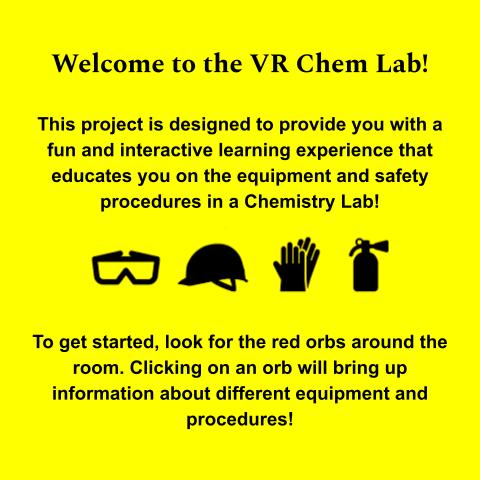
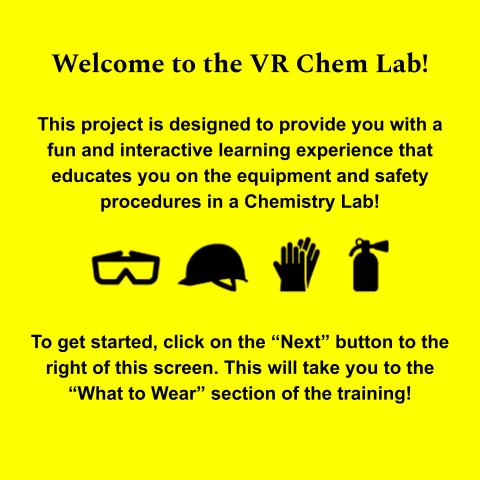
added back button

Changed region(s): [[0.0625, 0.6875, 0.9375, 0.9062]]

diff --git a/Final.py b/Final.py
@@ -21,6 +21,8 @@ view.setPosition([-0.5,4.4,-3.5])
 view.setEuler([-90,0,0])
 
 #Defines boolean variables
+toWhatToWear = False
+
 #What to Wear section
 visitedToEquipment = False
 
@@ -51,6 +53,23 @@ screen.disable(viz.LIGHTING)
 screen.visible(viz.ON)
 screen.texture(viz.addTexture("Slides/Intro.jpg"))
 
+#sets up "Next" box
+next = vizshape.addPlane(size=(.32,.18), axis=vizshape.AXIS_X, cullFace=True)
+next.setEuler(0,0,0)
+next.setPosition(-5.08,4.49,-3.45)
+next.disable(viz.LIGHTING)
+next.visible(viz.ON)
+next.texture(viz.addTexture("Slides/Next.jpg"))
+
+#sets up "Back" box
+back = vizshape.addPlane(size=(.32,.18), axis=vizshape.AXIS_X, cullFace=True)
+back.setEuler(0,0,0)
+back.setPosition(-5.08,4.49,-5.06)
+back.disable(viz.LIGHTING)
+back.visible(viz.ON)
+back.texture(viz.addTexture("Slides/Back.jpg"))
+back.visible(viz.OFF)
+
 #creates equipment orbs
 fume = viz.addChild('white_ball.wrl')
 eye_wash = viz.addChild('white_ball.wrl')
@@ -77,8 +96,19 @@ taps.color( viz.RED )
 floor.color( viz.RED )
 waste.color( viz.RED )
 toProcedure.color( viz.RED )
-toProcedure.visible(viz.OFF)
-		
+
+#turns orbs invisible
+fume.visible(viz.OFF)
+eye_wash.visible(viz.OFF)
+shower.visible(viz.OFF)
+nozzles.visible(viz.OFF)
+fire_ext.visible(viz.OFF)
+bench.visible(viz.OFF)
+sinks.visible(viz.OFF)
+taps.visible(viz.OFF)
+floor.visible(viz.OFF)
+waste.visible(viz.OFF)
+toProcedure.visible(viz.OFF)		
 
 #positions orbs
 fume.setPosition([-3.5,5,.85])
@@ -88,9 +118,9 @@ shower.setPosition([2,5,-11])
 fire_ext.setPosition([-4.2,4.1,-9.8])
 bench.setPosition([-0.5,3.9,-7.5])
 sinks.setPosition([-2.7,4.1,-4.8])
-taps.setPosition([-0.5,3.9,-7.5])
+taps.setPosition([-3,4,-1])
 floor.setPosition([2,3.2,-3.1])
-waste.setPosition([-0.5,3.9,-7.5])
+waste.setPosition([-4.5,3.6,-4])
 toProcedure.setPosition([-5,5,-5])
 
 def safetyTutorial():
@@ -98,12 +128,34 @@ def safetyTutorial():
 		proceduresTutorial()
 	elif visitedToEquipment == True:
 		equipmentTutorial()
+	elif toWhatToWear == True:
+		whatToWear()
 	else:
 		introduction()
 		
 def introduction():
+	global toWhatToWear
+	object = viz.pick()
+	if object == next:
+		print('running introduction')
+		toWhatToWear = True
+		fume.visible(viz.ON)
+		eye_wash.visible(viz.ON)
+		shower.visible(viz.ON)
+		nozzles.visible(viz.ON)
+		fire_ext.visible(viz.ON)
+		bench.visible(viz.ON)
+		sinks.visible(viz.ON)
+		taps.visible(viz.ON)
+		floor.visible(viz.ON)
+		waste.visible(viz.ON)
+		back.visible(viz.ON)
+	
+def whatToWear():
 	global visitedToEquipment
 	visitedToEquipment = True
+	#whatToWear
+	
 	
 
 def equipmentTutorial():
@@ -151,8 +203,8 @@ def equipmentTutorial():
 		view.setEuler([-90,0,0])
 	elif object == bench:
 		visitedBench = True 
-		viz.window.displayHTML( 'www.google.com' )
-		vizact.onkeydown(' ', viz.window.hideHTML )
+		#viz.window.displayHTML( 'www.google.com' )
+		#vizact.onkeydown(' ', viz.window.hideHTML )
 		screen.texture(viz.addTexture("Slides/Equipment/Lab_Bench.jpg"))
 		bench.color( viz.GREEN )
 		view.setPosition([-0.5,4.4,-3.5])
@@ -165,19 +217,19 @@ def equipmentTutorial():
 		view.setEuler([-90,0,0])
 	elif object == taps:
 		visitedTaps = True 
-		screen.texture(viz.addTexture("Slides/Equipment/Lab_Bench.jpg"))
+		screen.texture(viz.addTexture("Slides/Equipment/Taps.jpg"))
 		taps.color( viz.GREEN )
 		view.setPosition([-0.5,4.4,-3.5])
 		view.setEuler([-90,0,0])
 	elif object == floor:
 		visitedFloor = True 
-		screen.texture(viz.addTexture("Slides/Equipment/Lab_Bench.jpg"))
+		screen.texture(viz.addTexture("Slides/Equipment/Floor.jpg"))
 		floor.color( viz.GREEN )
 		view.setPosition([0,4.4,-3.5])
 		view.setEuler([-90,0,0])
 	elif object == waste:
 		visitedWaste = True 
-		screen.texture(viz.addTexture("Slides/Equipment/Lab_Bench.jpg"))
+		screen.texture(viz.addTexture("Slides/Equipment/Waste.jpg"))
 		waste.color( viz.GREEN )
 		view.setPosition([-0.5,4.4,-3.5])
 		view.setEuler([-90,0,0])
@@ -203,7 +255,9 @@ def equipmentTutorial():
 		
 		
 		
+		
 def proceduresTutorial():
+	print('running procedures')
 	#disables equipment orbs
 	screen.texture(viz.addTexture("Slides/Intro.jpg"))
 	object = viz.pick()
